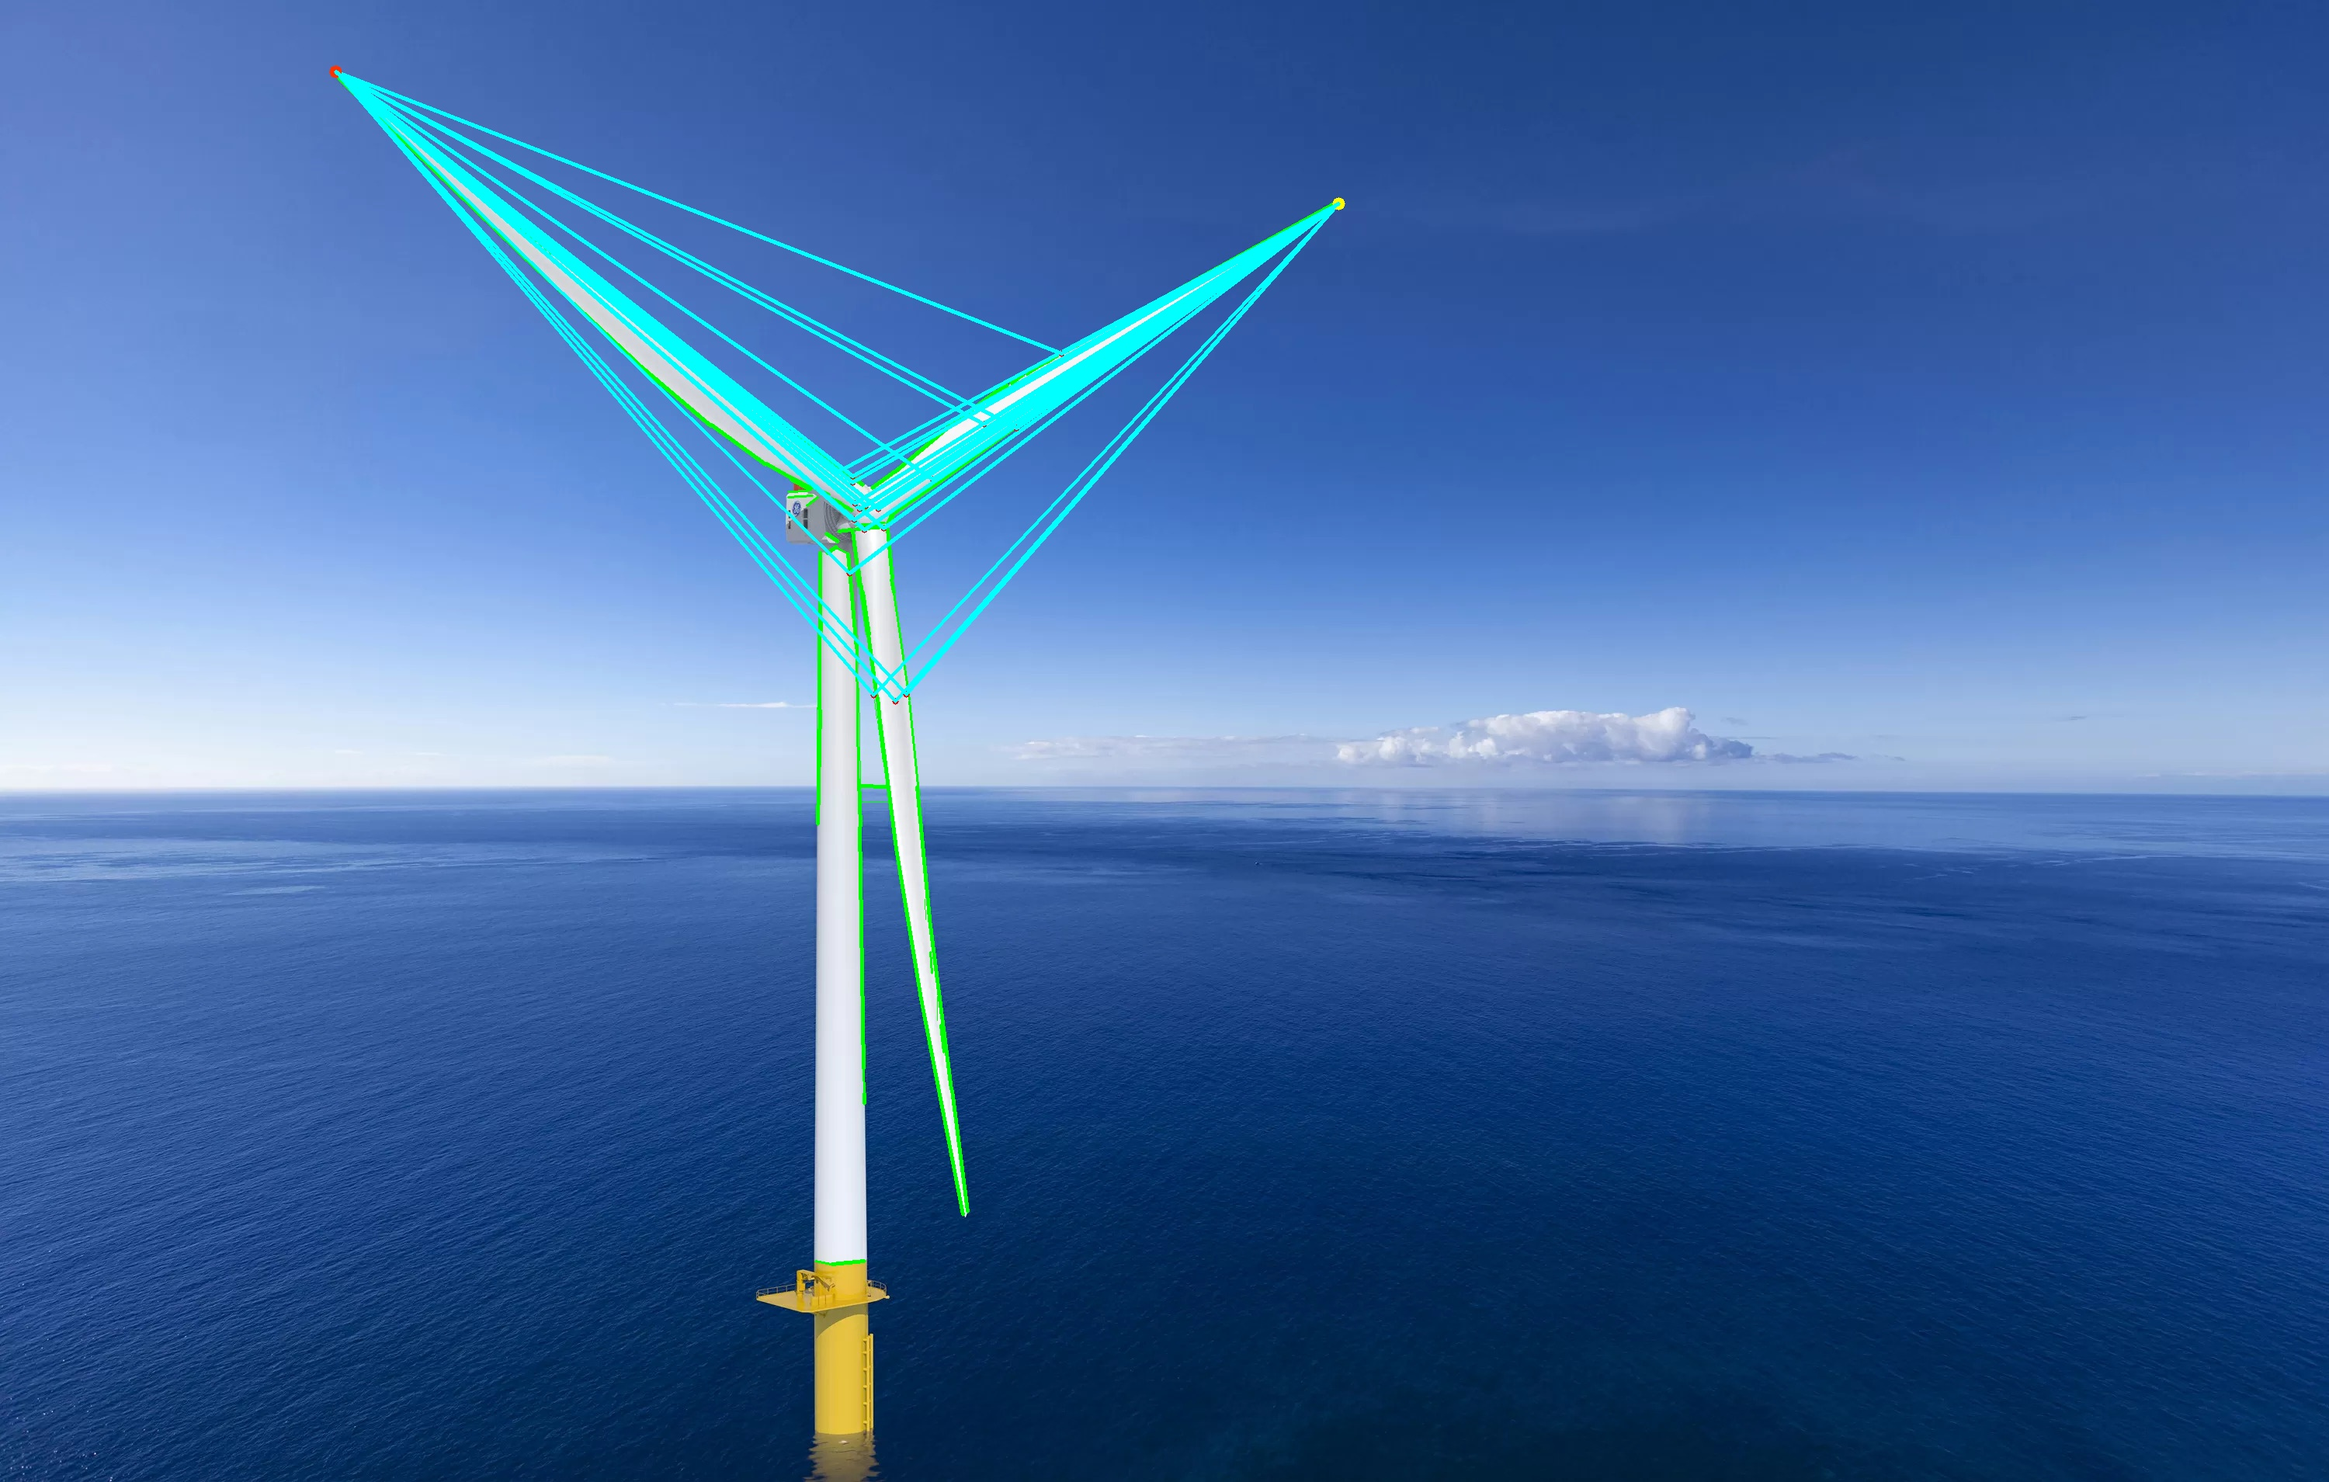
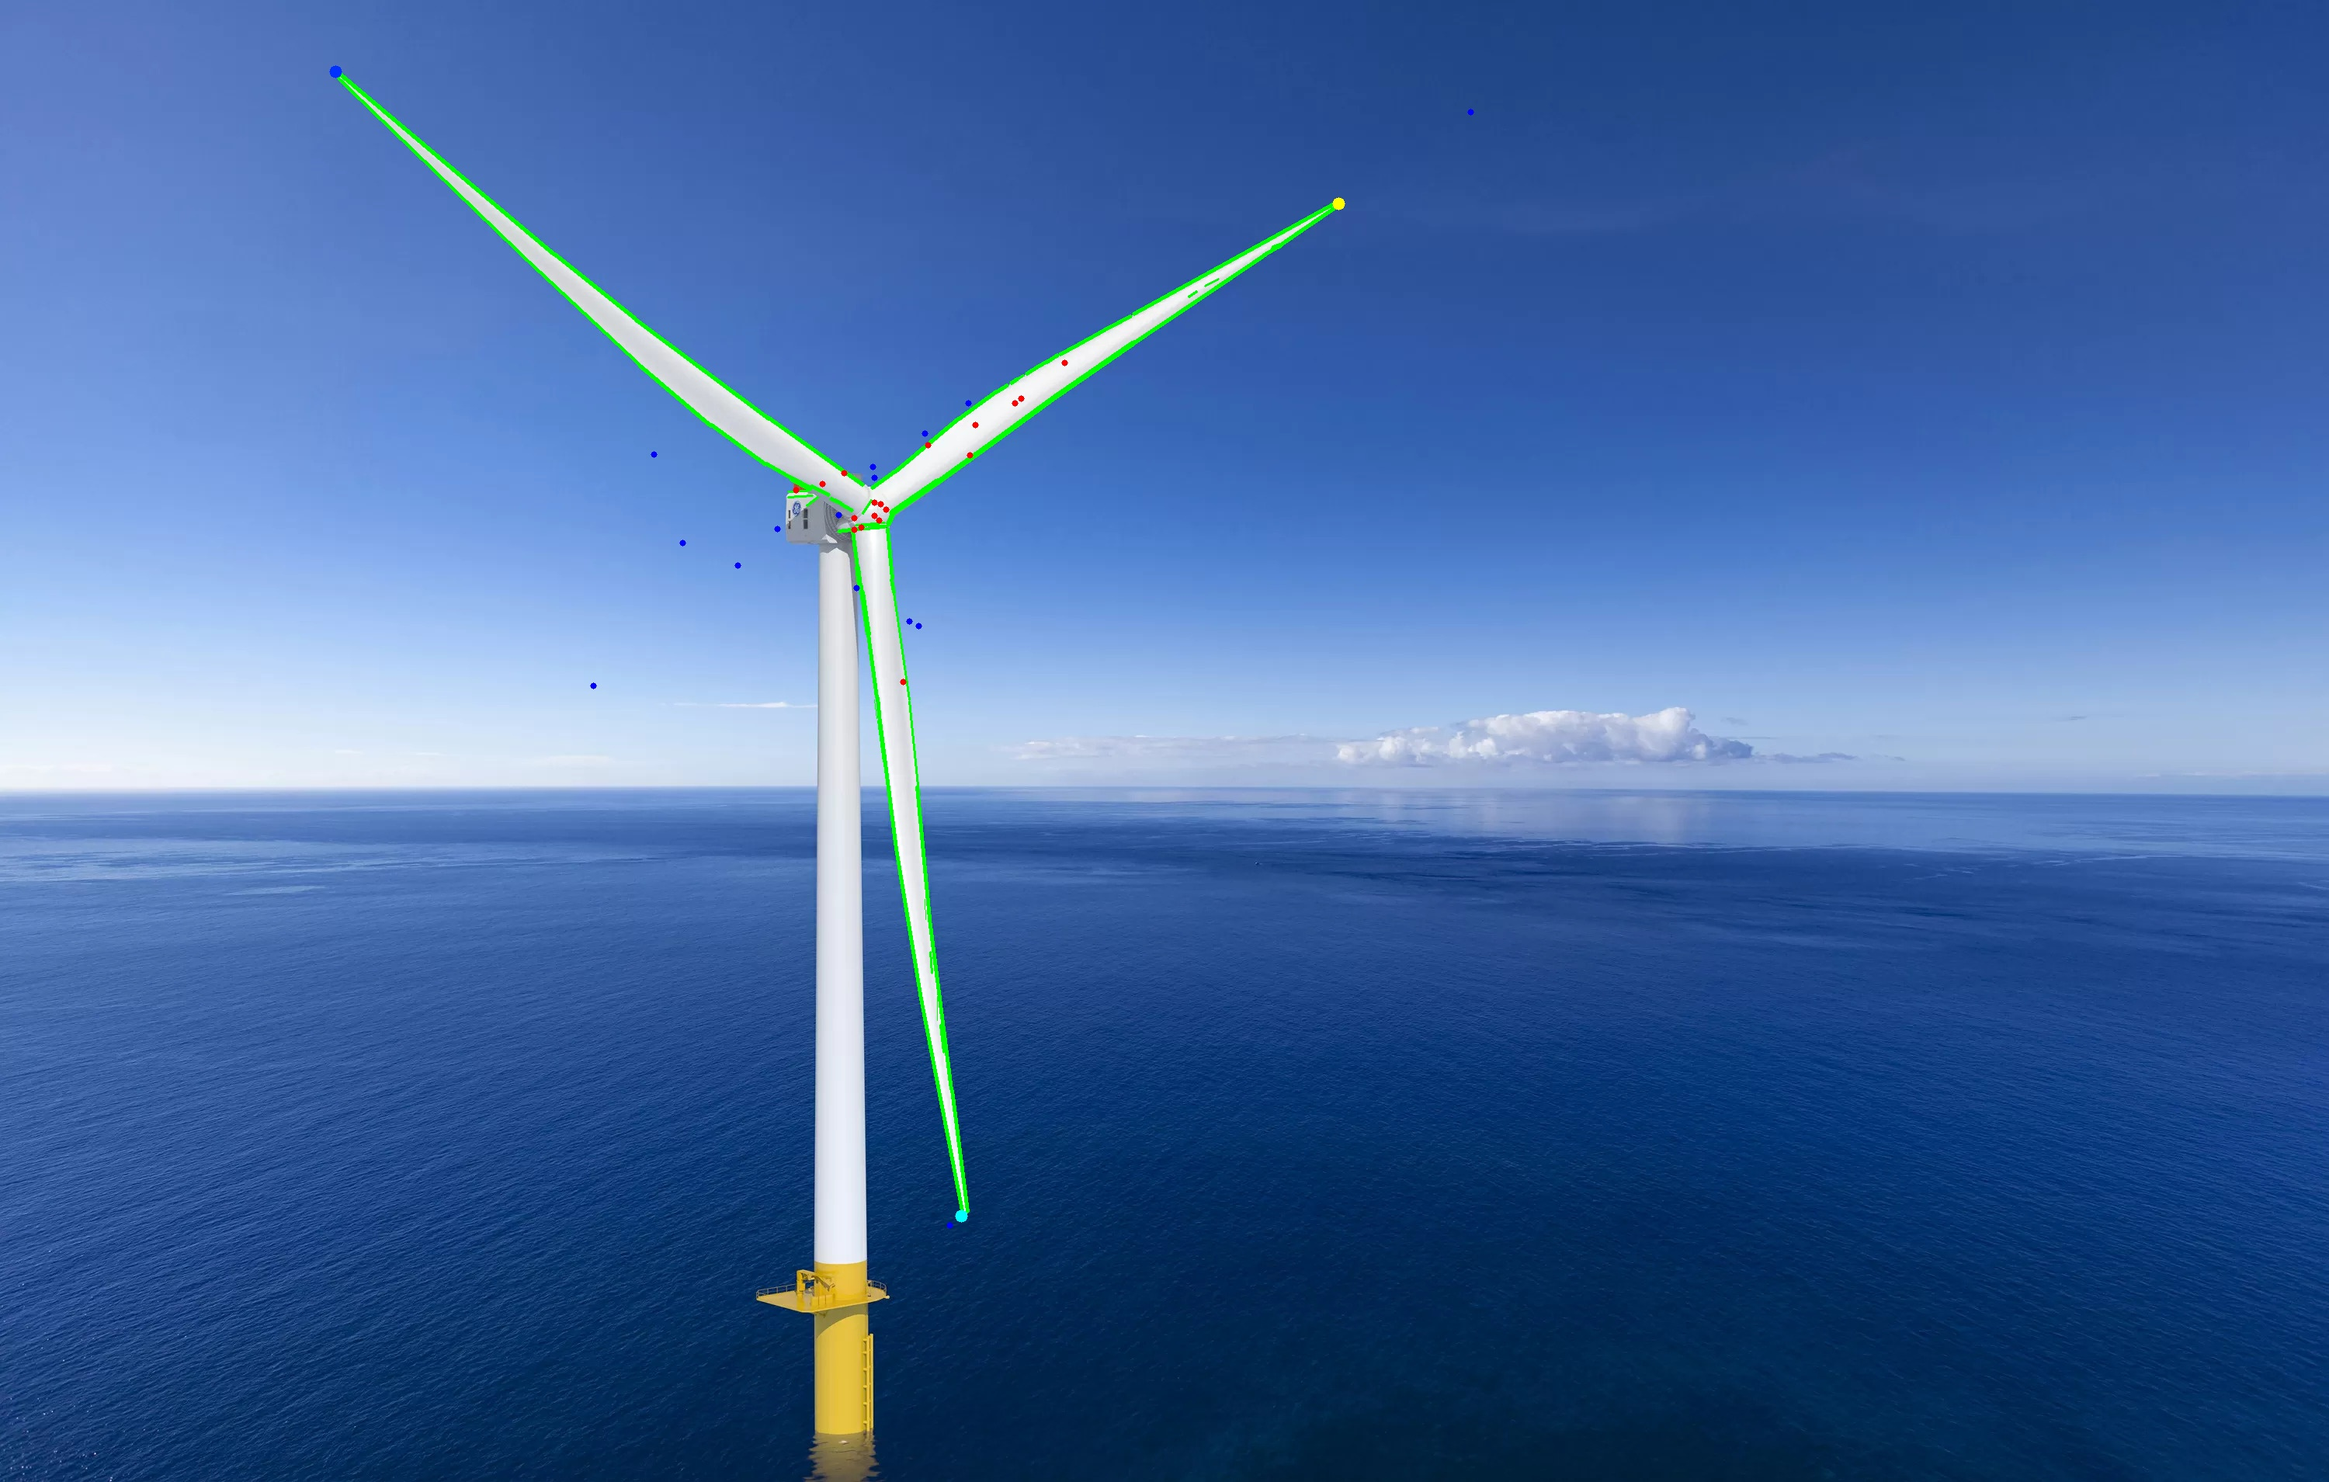
Added score calculation and estimate of best model. Line endpoints of turbine wings still needs to be fixed

diff --git a/scripts/blade_detector.py b/scripts/blade_detector.py
@@ -3,7 +3,7 @@ import cv2
 from pylsd.lsd import lsd
 import numpy as np
 
-from math import log, pow
+from math import log, pow, sqrt
 import random
 
 class BladeDetector:
@@ -13,10 +13,11 @@ class BladeDetector:
         if self.save_result:
             self.save_path = './scripts/output/' + img_path.split('/')[-1]
         self.img = cv2.imread(img_path)
+        self.img_final = cv2.imread(img_path)
         #self.img = cv2.resize(self.img, (1920, 1080))
         self.gray_img = cv2.cvtColor(self.img, cv2.COLOR_BGR2GRAY)
 
-    def get_mask(self, file_annot):
+    def get_mask(self, img_file, img_file_annot):
         """
         Return the mask based on CIE-LAB color segmentation.
         The mask is used for filtering lines in detect()
@@ -27,11 +28,12 @@ class BladeDetector:
         @return:  the CIE-LAB mask as a list of length 2: (mean, std)
         """ 
         # Calculate a CIE-LAB color segmentation mask based on an annotated image (red pixel values)
-        img_annot = cv2.imread(file_annot)
+        img_annot = cv2.imread(img_file_annot)
+        img = cv2.imread(img_file)
         lower_limit = (0, 0, 245)
         upper_limit = (10, 10, 256)
         mask = cv2.inRange(img_annot,lower_limit, upper_limit)
-        img_lab = cv2.cvtColor(self.img, cv2.COLOR_BGR2LAB)
+        img_lab = cv2.cvtColor(img, cv2.COLOR_BGR2LAB)
         mean_lab, std_lab = cv2.meanStdDev(img_lab, mask = mask)
         self.mask_lab = ((mean_lab-2*std_lab).flatten(), (mean_lab+2*std_lab).flatten())
         print("Mean: {}, std: {}".format(mean_lab, std_lab))
@@ -63,15 +65,24 @@ class BladeDetector:
         masked_image_zero = np.zeros_like(masked_image)
         contours, hierarchy = cv2.findContours(image=masked_image, mode=cv2.RETR_TREE, method=cv2.CHAIN_APPROX_NONE)
         contours_to_keep = []
+        #c = max(contours, key = lambda cnt: cv2.arcLength(cnt, closed=True))
+        #contours_to_keep.append(c)
+        areas = []
+        # Use the contour with the largest bounding box in the image..
+        # Should be the closest windmill
         for con in contours:
-            if cv2.contourArea(con) > 50000:
-                contours_to_keep.append(con)
+            #if cv2.contourArea(con) > 5000:
+            #    contours_to_keep.append(con)
+            x,y,w,h = cv2.boundingRect(con)
+            areas.append(w*h)
+        contours_to_keep.append(contours[np.argmax(areas)])
+            
         # Fill mask with large contours
         cv2.drawContours(masked_image_zero, contours_to_keep, -1, 255, -1)
         # Use the new mask
         self.masked_image = masked_image_zero
         if self.save_result:
-            cv2.imwrite(self.save_path[:-4] + '_contour_mask.jpg', masked_image)
+            cv2.imwrite(self.save_path[:-4] + '_contour_mask.jpg', self.masked_image)
         # Filter using the new mask
         self.filtered_lines = []
         for i in range(self.lines.shape[0]):
@@ -87,7 +98,7 @@ class BladeDetector:
             cv2.imwrite(self.save_path[:-4] + '_filtered.jpg', self.img)
         self.estimate_best_fit()
         if self.save_result:
-            cv2.imwrite(self.save_path[:-4] + '_intersections.jpg', self.img)
+            cv2.imwrite(self.save_path[:-4] + '_final.jpg', self.img_final)
 
     def estimate_best_fit(self):
         """
@@ -106,22 +117,65 @@ class BladeDetector:
         w = 0.5     # prob of choosing an inlier: w ~= inliers/(inliers+outliers)
         k = int(log(1-p) / log(1-pow(w,n))) + 1
         best_fit = None
-        best_err = np.inf
+        best_score = np.inf
         for i in range(k):
             maybe_inliers = np.array(random.sample(self.filtered_lines, n))
-            maybe_model = self.get_turbine_model(maybe_inliers[:,:4])
+            extreme_pts = self.find_extreme_points(self.masked_image)
+            maybe_model_dict = self.get_turbine_model(maybe_inliers[:,:4], extreme_pts)
+            # Empty dicts evaluates to False so True if not empty
+            if maybe_model_dict:
+                score = self.calculate_model_score(maybe_model_dict)
+                if score < best_score:
+                    best_score = score
+                    best_fit = maybe_model_dict
+        if self.save_result:
+            cv2.imwrite(self.save_path[:-4] + '_intersections.jpg', self.img)
+        print("Done!")
+        print("Best score was: {}".format(best_score))
+        if self.save_result:
+            centroid = tuple(best_fit.get('centroid'))
+            end_pts = best_fit.get('line_endpoints')
+            cv2.circle(self.img_final, centroid, 8, (0,0,255), -1)
+            for pt in end_pts:
+                cv2.line(self.img_final, centroid, tuple(pt), (255,255,0), 2)
 
-    def get_turbine_model(self, lines):
+    def find_extreme_points(self, cnt):
         """
-        Return the turbine model parameters given three lines.
+        Return the extreme points of the contour
+
+        @type   cnt: contour/numpy array
+        @param  cnt: Contour is a numpy array of values 0 or 255
+        @rtype:   list of shape (4,2)
+        @return:  the contour extreme points (left, right, top, bottom)
+        """
+        x, y, w, h = cv2.boundingRect(cnt)
+        left = (x, np.argmax(cnt[:, x]))
+        right = (x+w-1, np.argmax(cnt[:, x+w-1]))
+        top = (np.argmax(self.masked_image[y, :]), y)
+        bottom = (np.argmax(self.masked_image[y+h-1, :]), y+h-1)
+        if self.save_result:
+            cv2.circle(self.img, left, 8, (0, 50, 255), -1)
+            cv2.circle(self.img, right, 8, (0, 255, 255), -1)
+            cv2.circle(self.img, top, 8, (255, 50, 0), -1)
+            cv2.circle(self.img, bottom, 8, (255, 255, 0), -1)
+        return [left, right, top, bottom]
+
+    def get_turbine_model(self, lines, extreme_pts):
+        """
+        Return the turbine model parameters given three lines and extreme points of contour.
         The turbine model parameters are: angle between lines, lengths,
-        mean lengths, intersections and centroid.
+        mean length, intersections, line_endpoints and centroid.
+        The dict keys are: 'centroid', 'intersections', 'line_lengths',
+        'mean_length', 'line_endpoints' and 'angles_between_lines'
 
         @type   lines: numpy array of shape (3,4)
         @param  lines: Each row is 4 numbers, x1, y1, x2, y2
-        @rtype:   numpy array of shape (,5)
-        @return:  the turbine model parameters
-        """ 
+        @type   extreme_pts: list of shape (4,2)
+        @param  extreme_pts: the contour extreme points (left, right, top, bottom)
+        @rtype:   dict
+        @return:  dict containing the turbine model parameters
+        """
+        parameter_dict = {}
         lines_homogenous = []
         intersections = []
         for l in lines:
@@ -140,13 +194,10 @@ class BladeDetector:
         intersections = np.array(intersections)
         # Back to cartesian space (x,y)
         intersections = np.array([intersection[:2] / intersection[2] for intersection in intersections])
-        #img_pts = intersections.astype(int)
-        # Draw blue dots on intersection points
-        #for pt in img_pts:
-        #    cv2.circle(self.img, tuple(pt), 3, (255,0,0), thickness=-1)
+
         # Calculate centroid of intersections (x,y) and round to int
         centroid = (np.sum(intersections, axis=0)/len(intersections)).astype(int)
-        # Red dots on centroids if inside mask
+        # Red dots on centroids if inside mask, else blue dots
         if centroid[0] >= 0 and centroid[1] >= 0 and centroid[1] < self.masked_image.shape[0] and centroid[0] < self.masked_image.shape[1]:
             if self.masked_image[centroid[1], centroid[0]] != 0:
                 cv2.circle(self.img, tuple(centroid), 4, (0,0,255), thickness=-1)
@@ -158,30 +209,98 @@ class BladeDetector:
                 # Lines are a,b,c: ax+by+c = 0
                 # y = -(a/b)x + c/b
                 start_pt = tuple(centroid)
-                x, y, w, h = cv2.boundingRect(self.masked_image)
-                left = (x, np.argmax(self.masked_image[:, x]))
-                right = (x+w-1, np.argmax(self.masked_image[:, x+w-1]))
-                #top = (np.argmax(self.masked_image[y, :]), y)
-                #bottom = (np.argmax(self.masked_image[y+h-1, :]), y+h-1)
-                cv2.circle(self.img, left, 8, (0, 50, 255), -1)
-                cv2.circle(self.img, right, 8, (0, 255, 255), -1)
-                #cv2.circle(self.img, top, 8, (255, 50, 0), -1)
-                #cv2.circle(self.img, bottom, 8, (255, 255, 0), -1)
-                end_pt = left
-                cv2.line(self.img, start_pt, end_pt, color=(255,255,0), thickness=3)
-                end_pt = right
-                cv2.line(self.img, start_pt, end_pt, color=(255,255,0), thickness=3)
+                end_pt_left = extreme_pts[0]
+                end_pt_right = extreme_pts[1]
+                end_pt_bot = (1244,1563)
+                # This is actually top, but keep name bot for convenience..
+                #end_pt_bot = extreme_pts[2]
+                parameter_dict["line_endpoints"] = [end_pt_left, end_pt_right, end_pt_bot]
+                line_lengths = self.calculate_line_lengths(start_pt, [end_pt_left, end_pt_right, end_pt_bot])
+                parameter_dict["line_lengths"] = line_lengths
+                mean_length = np.sum(line_lengths)/len(line_lengths)
+                parameter_dict["mean_length"] = mean_length
+                angles_between_lines = self.calculate_angles_between_lines(start_pt, [end_pt_left, end_pt_right, end_pt_bot])
+                parameter_dict["angles_between_lines"] = angles_between_lines
+                parameter_dict["centroid"] = centroid
+                parameter_dict["intersections"] = intersections
+                return parameter_dict
             else:
                 cv2.circle(self.img, tuple(centroid), 4, (255,0,0),thickness=-1)
-        # Extend lines from centroid to edge of mask
         # Calculate length of each line,, mean length, angle between lines and we have what we need!
+        return parameter_dict
 
-        return centroid
+    def dist_between_points(self, pt1, pt2):
+        return sqrt((pt2[0]-pt1[0])*(pt2[0]-pt1[0]) + (pt2[1]-pt1[1])*(pt2[1]-pt1[1]))
+
+    def angle_between_vectors(self, v1, v2):
+        return np.arccos(np.dot(v1, v2)/(np.linalg.norm(v1)*np.linalg.norm(v2)))
+
+    def calculate_line_lengths(self, centroid, points):
+        """
+        Return the line lengths given the centroid and end points.
+
+        @type   centroid: tuple of length 2
+        @param  centroid: Centroid is given in (x,y) coordinates
+        @type   points: list of tuples
+        @param  points: list of extreme points given as tuples in (x,y) coordinates
+        @rtype:   numpy array of shape (,len(points))
+        @return:  the length of each line from centroid to point in points
+        """
+        lengths = []
+        for pt in points:
+            lengths.append(self.dist_between_points(centroid, pt))
+        return np.array(lengths)
+
+    def calculate_angles_between_lines(self, centroid, points):
+        """
+        Return the angles between lines given the centroid and end points.
+
+        @type   centroid: tuple of length 2
+        @param  centroid: Centroid is given in (x,y) coordinates
+        @type   points: list of tuples
+        @param  points: list of extreme points given as tuples in (x,y) coordinates
+        @rtype:   numpy array of shape (,len(points))
+        @return:  the angle between each line pair (in degrees)
+        """
+        angles = []
+        v1 = np.array((points[0][0] - centroid[0], points[0][1] - centroid[1]))
+        v2 = np.array((points[1][0] - centroid[0], points[1][1] - centroid[1]))
+        v3 = np.array((points[2][0] - centroid[0], points[2][1] - centroid[1]))
+        angles.append(np.rad2deg(self.angle_between_vectors(v1, v2)))
+        angles.append(np.rad2deg(self.angle_between_vectors(v1, v3)))
+        angles.append(np.rad2deg(self.angle_between_vectors(v2, v3)))
+        return np.array(angles)
+
+    def calculate_model_score(self, model_dict):
+        """
+        Return the score based on the wind turbine model.
+        The score is calculated from the model parameters, and the deviation
+        of each intersection point from the centroid, the angle deviation from 120 deg.,
+        and the deviation of each wing length from mean length.
+        A small score is better.
+
+        @type   model_dict: dict
+        @param  model_dict: Dict containing the wind turbine model parameters
+        @rtype:   float
+        @return:  the score based on model parameters (lower is better)
+        """
+        intersections = model_dict.get('intersections')
+        centroid = model_dict.get('centroid')
+        angles_between_lines = model_dict.get('angles_between_lines')
+        lengths = model_dict.get('line_lengths')
+        mean_length = model_dict.get('mean_length')
+        score = 0
+        for i in range(3):
+            int_i = intersections[i]
+            a_i = angles_between_lines[i]
+            length_i = lengths[i]
+            score += np.dot((int_i - centroid),(int_i - centroid)) + (120 - a_i)*(120 - a_i) + (length_i - mean_length)*(length_i - mean_length)
+        return score
 
 
 def main():
     bd = BladeDetector(img_path='./scripts/image_data/offshore_wind_turbine.jpg', save_result=True)
-    bd.get_mask('./scripts/image_data/annotated_wind_turbine.jpg')
+    bd.get_mask('./scripts/image_data/offshore_wind_turbine.jpg', './scripts/image_data/annotated_wind_turbine.jpg')
     bd.detect()
 
 if __name__ == "__main__":
